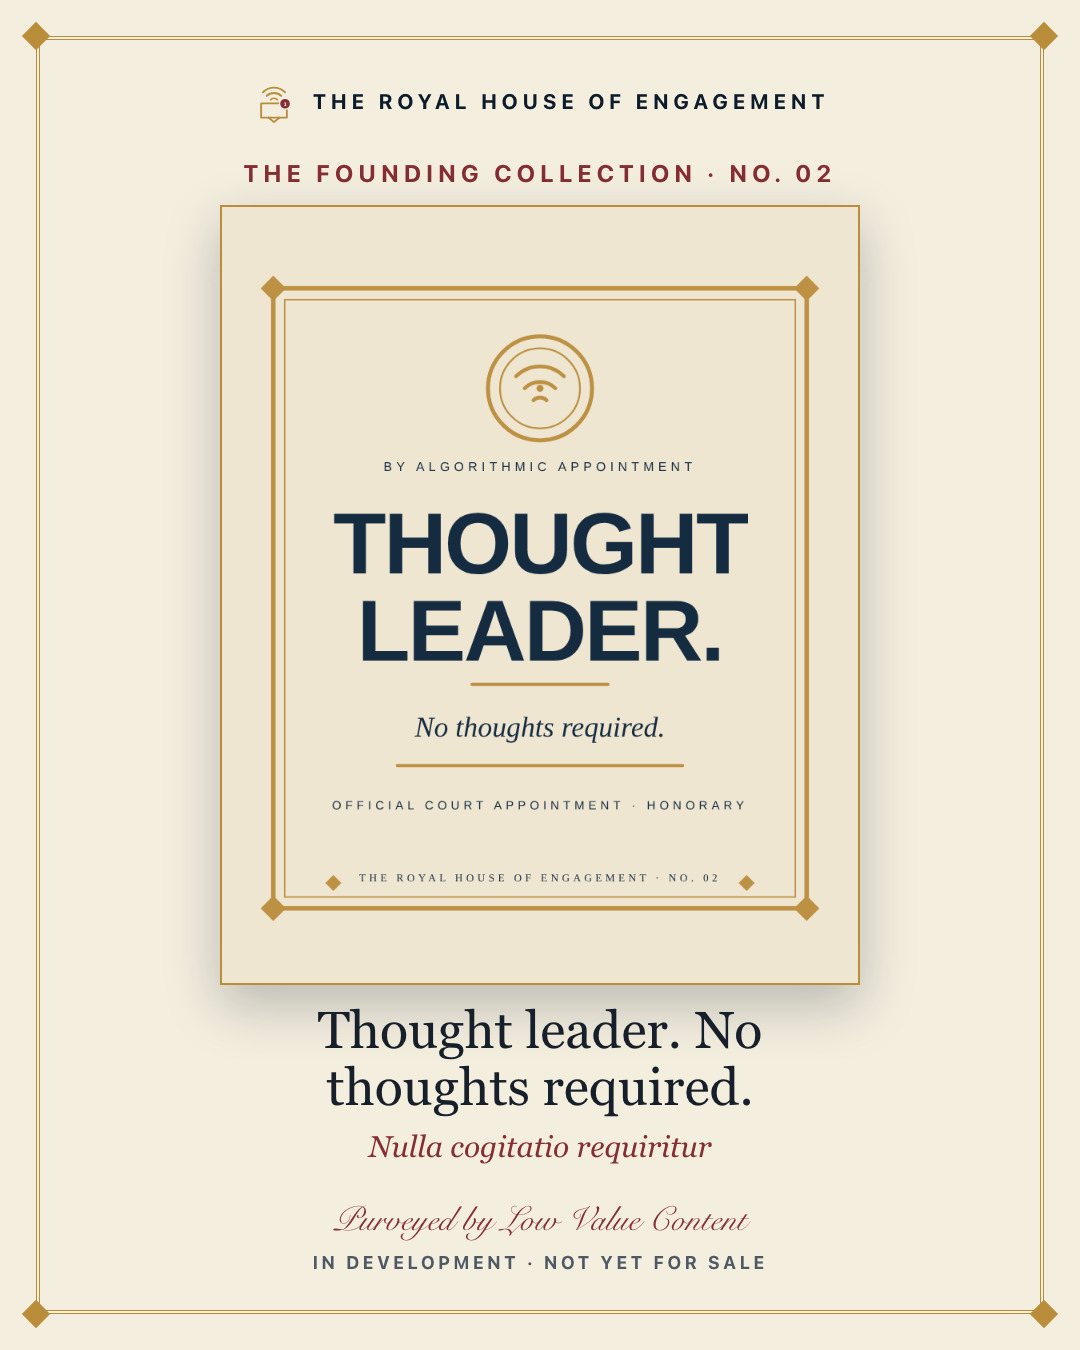
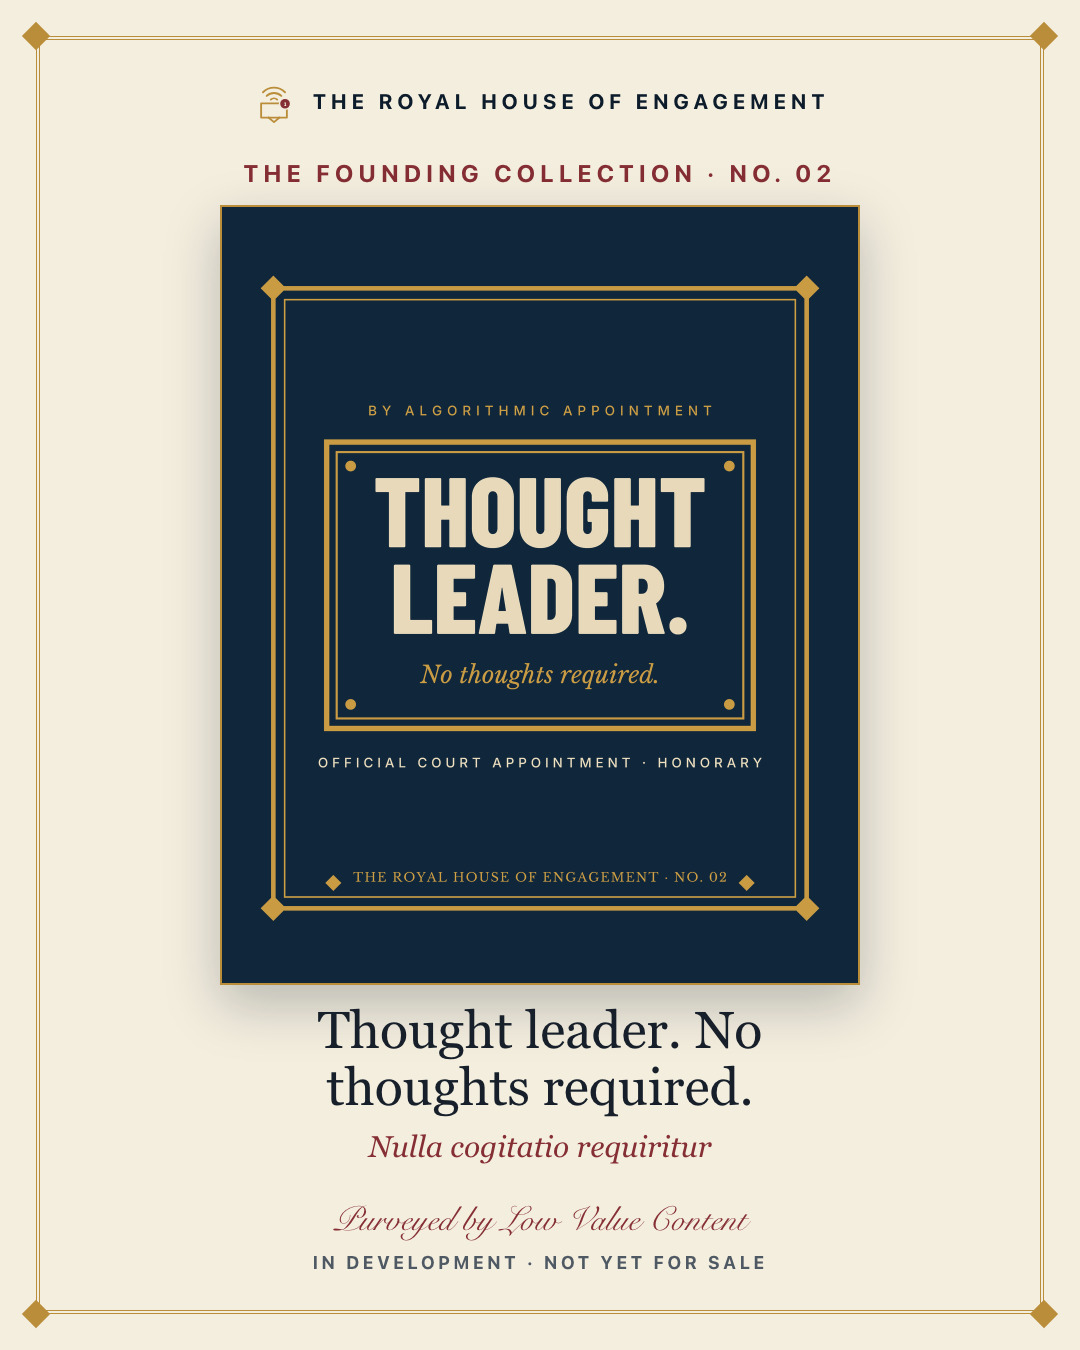
Refresh the social product cards for the holiday six

diff --git a/tools/social/build_social.py b/tools/social/build_social.py
@@ -32,8 +32,8 @@ CHROME = os.environ.get("CHROME", "/Applications/Google Chrome.app/Contents/MacO
 MONTHS = ["January", "February", "March", "April", "May", "June", "July", "August", "September", "October", "November", "December"]
 ROMAN = ["I", "II", "III", "IV", "V", "VI", "VII", "VIII", "IX", "X", "XI", "XII"]
 GARMENT = {"ivory": "#efe6d2", "oxblood": "#7a2630", "navy": "#10263a", "black": "#1c1c1e"}
-PRODUCT_GARMENT = {"validate": "ivory", "thought-leader": "ivory", "doomscrolling": "oxblood", "content-creator": "ivory",
-                   "authentic-self": "ivory", "optimized-shirt": "ivory", "much-published": "navy", "order-blue-check": "black",
+PRODUCT_GARMENT = {"validate": "ivory", "thought-leader": "navy", "doomscrolling": "oxblood", "content-creator": "ivory",
+                   "authentic-self": "oxblood", "sent-regretted": "navy", "much-published": "navy", "order-blue-check": "black",
                    "y2k-the-almost": "oxblood", "saint-moth": "ivory"}
 SLOT_DAYS = {0, 2, 4}  # Mon, Wed, Fri
 START = date(2026, 11, 5)
